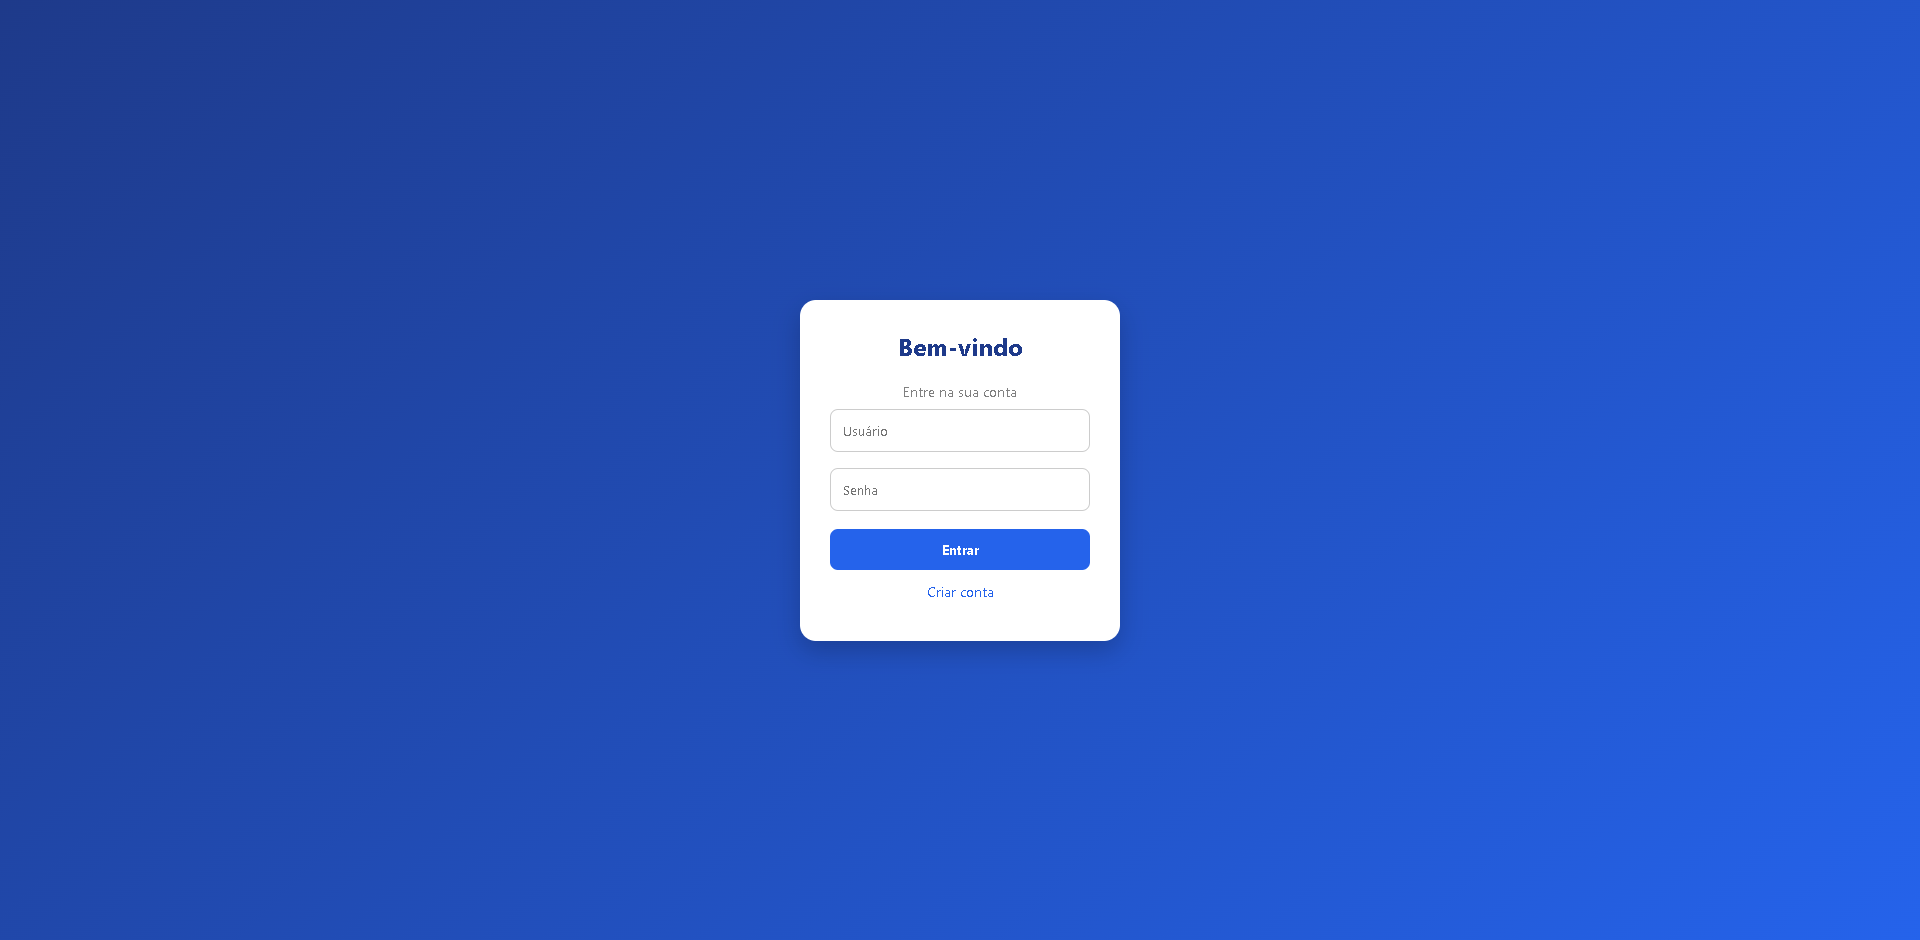
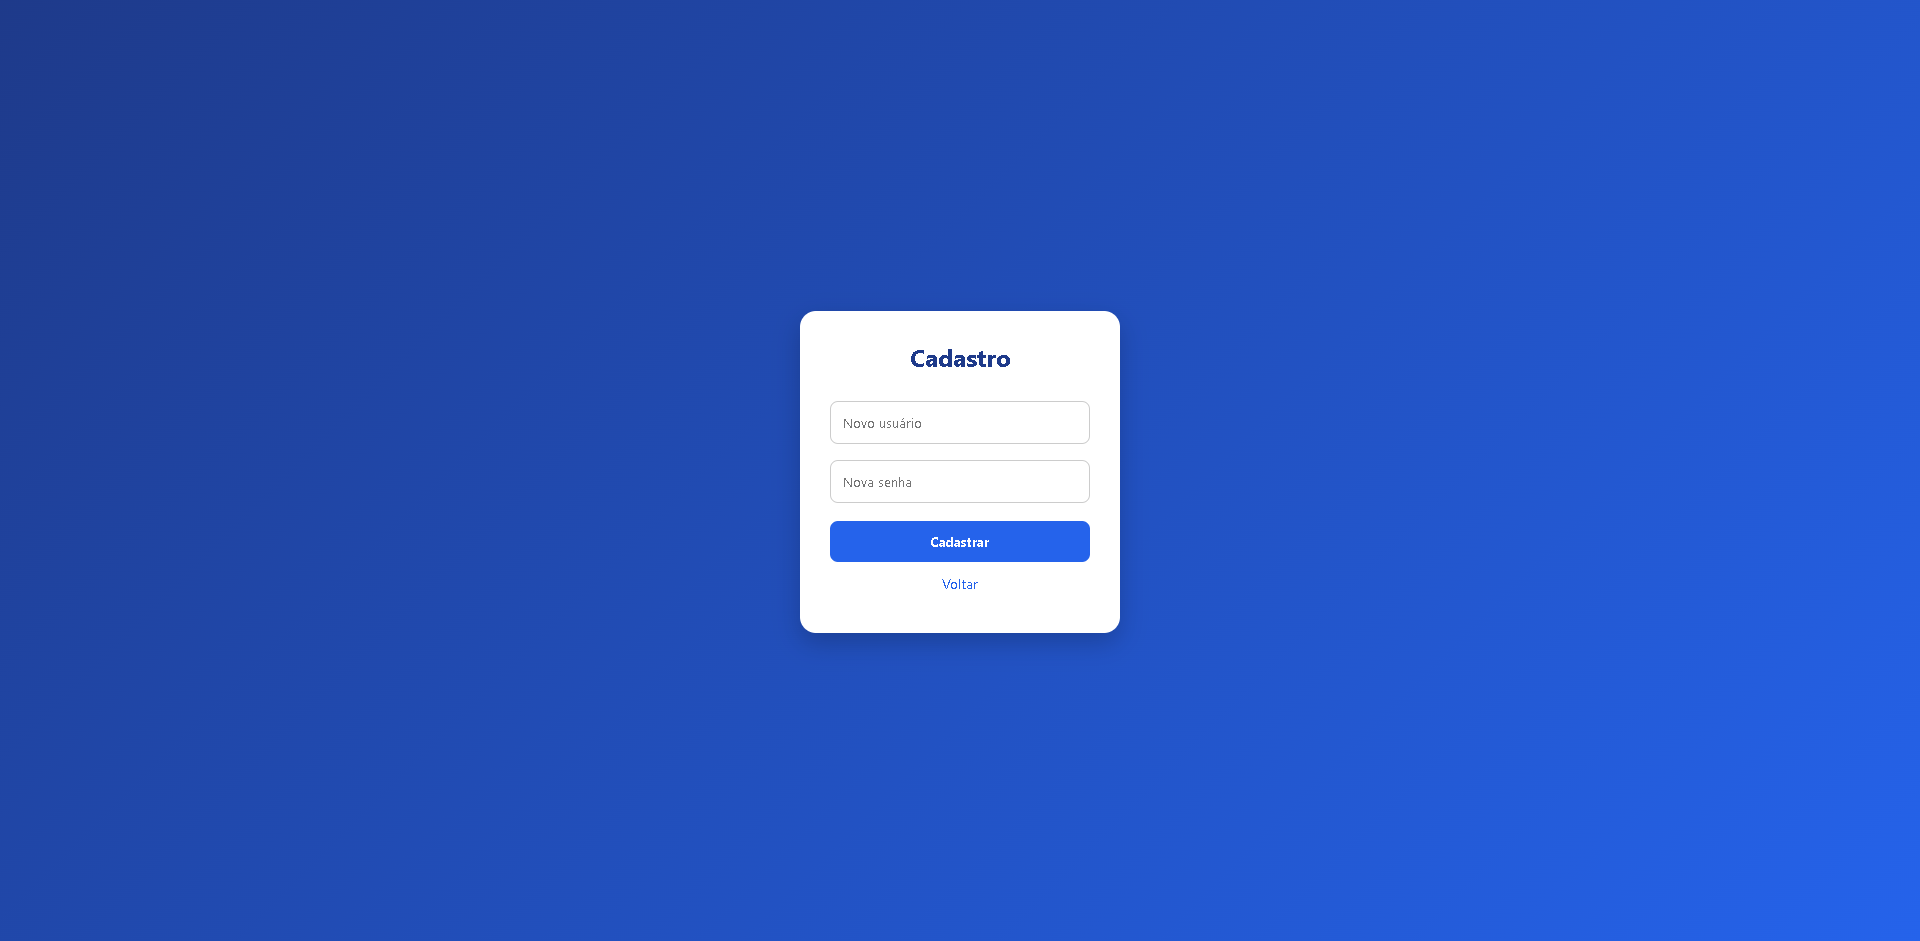
up

Changed region(s): [[0.4375, 0.4319, 0.5625, 0.617], [0.4062, 0.3085, 0.5938, 0.4319], [0.4062, 0.6479, 0.5938, 0.7096]]

diff --git a/README.md b/README.md
@@ -26,8 +26,7 @@ https://carlosmbarreto.github.io/login-system
 
 ## Observação
 Este projeto não utiliza banco de dados real, sendo apenas para fins de estudo.
-<<<<<<< HEAD
 
 ## 📷 Preview
-![preview](create-accont-screen.png)
-![preview](image.png)
+creation acconts screen ![preview](image.png)
+home screen ![preview](image.png)
